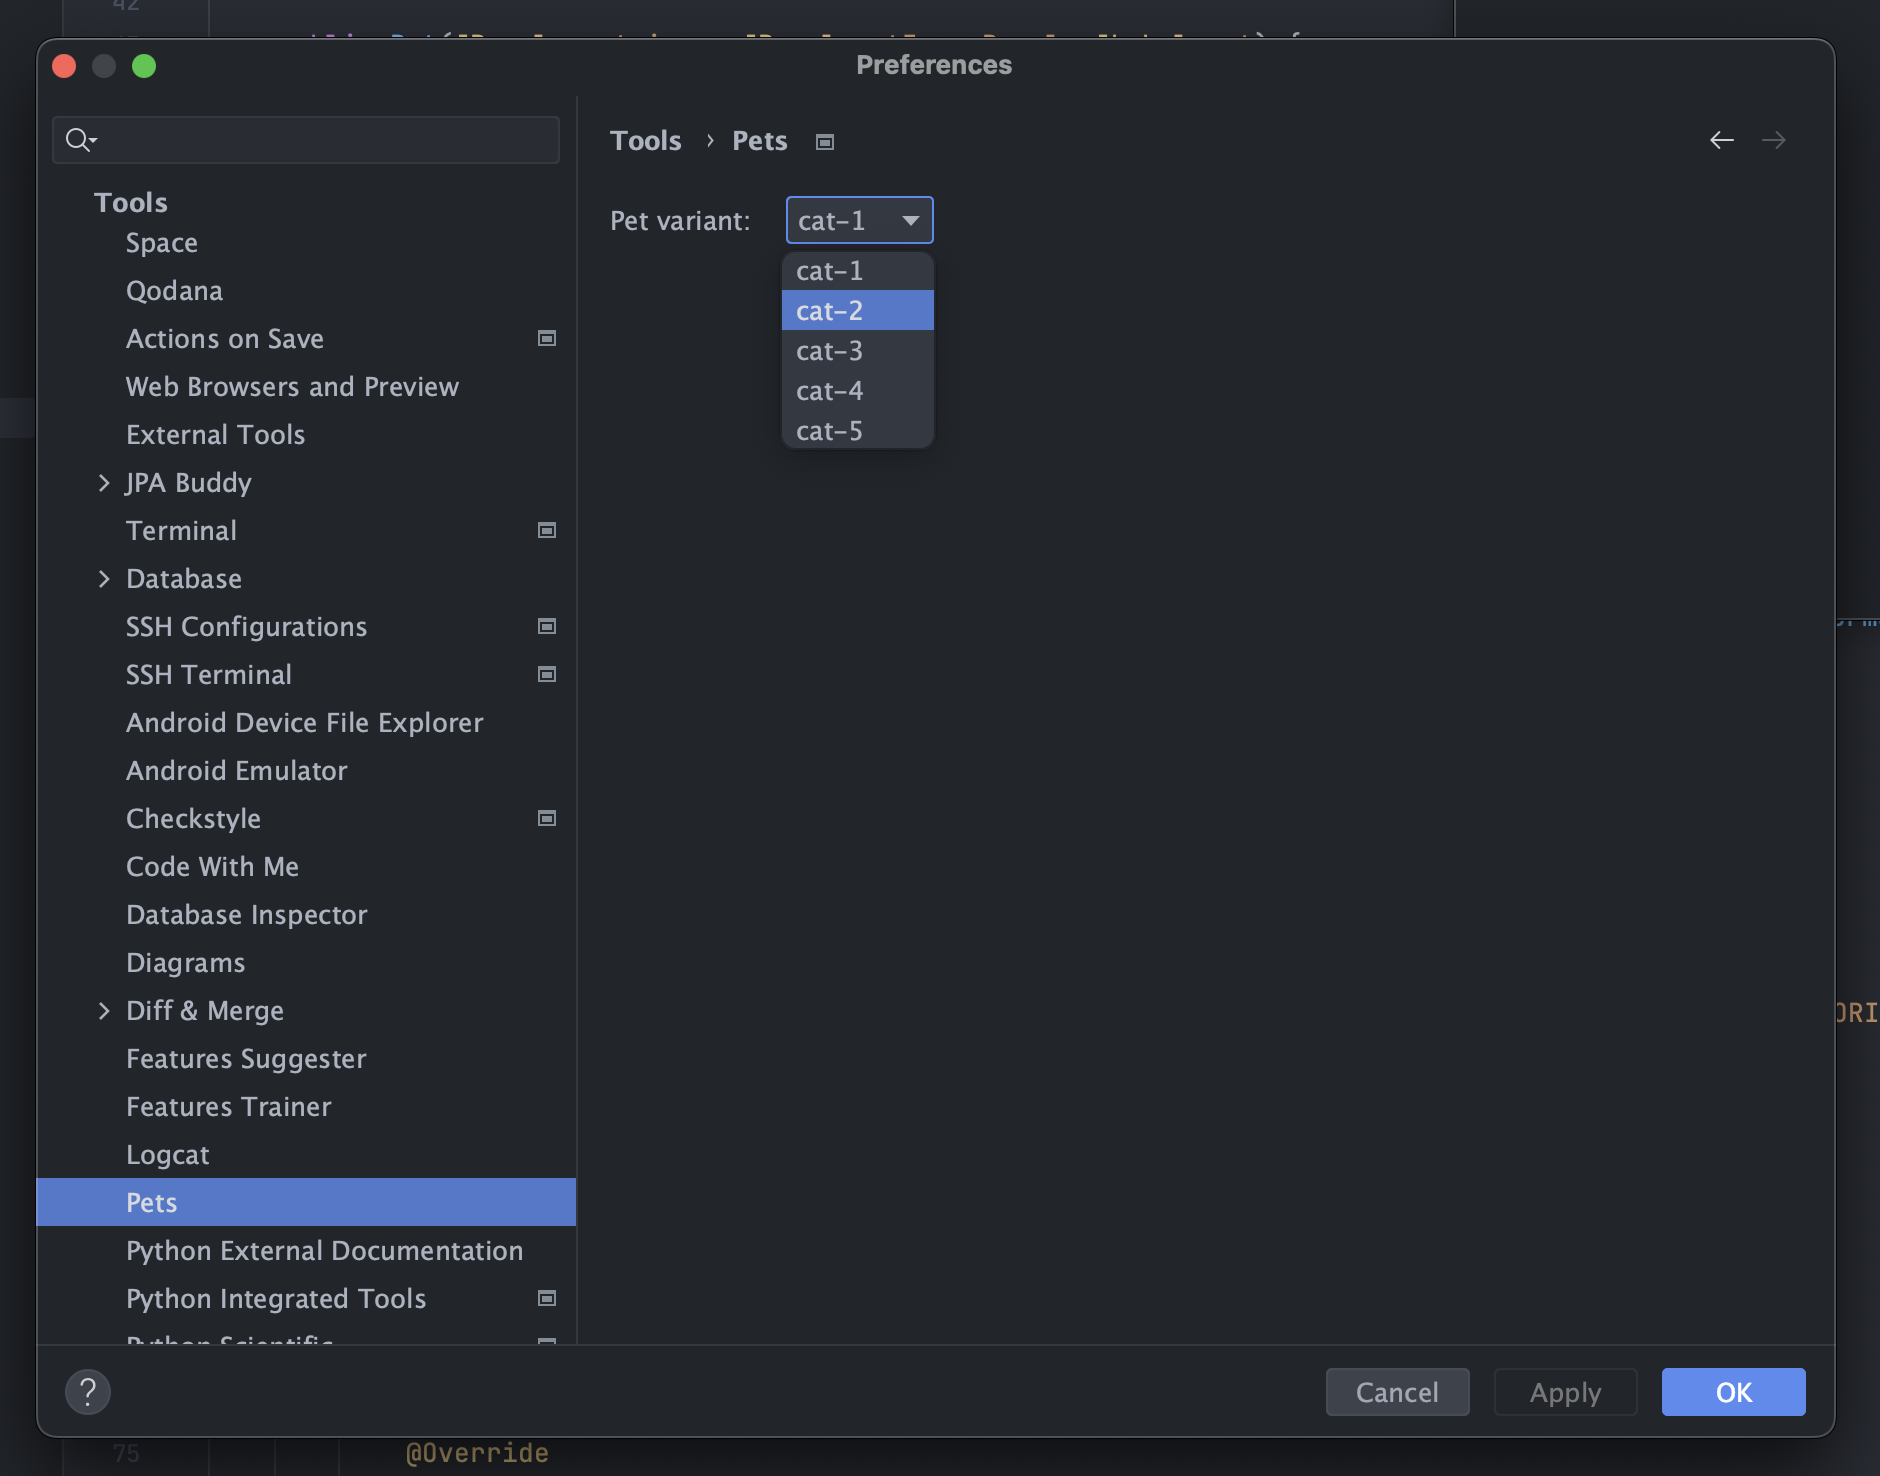
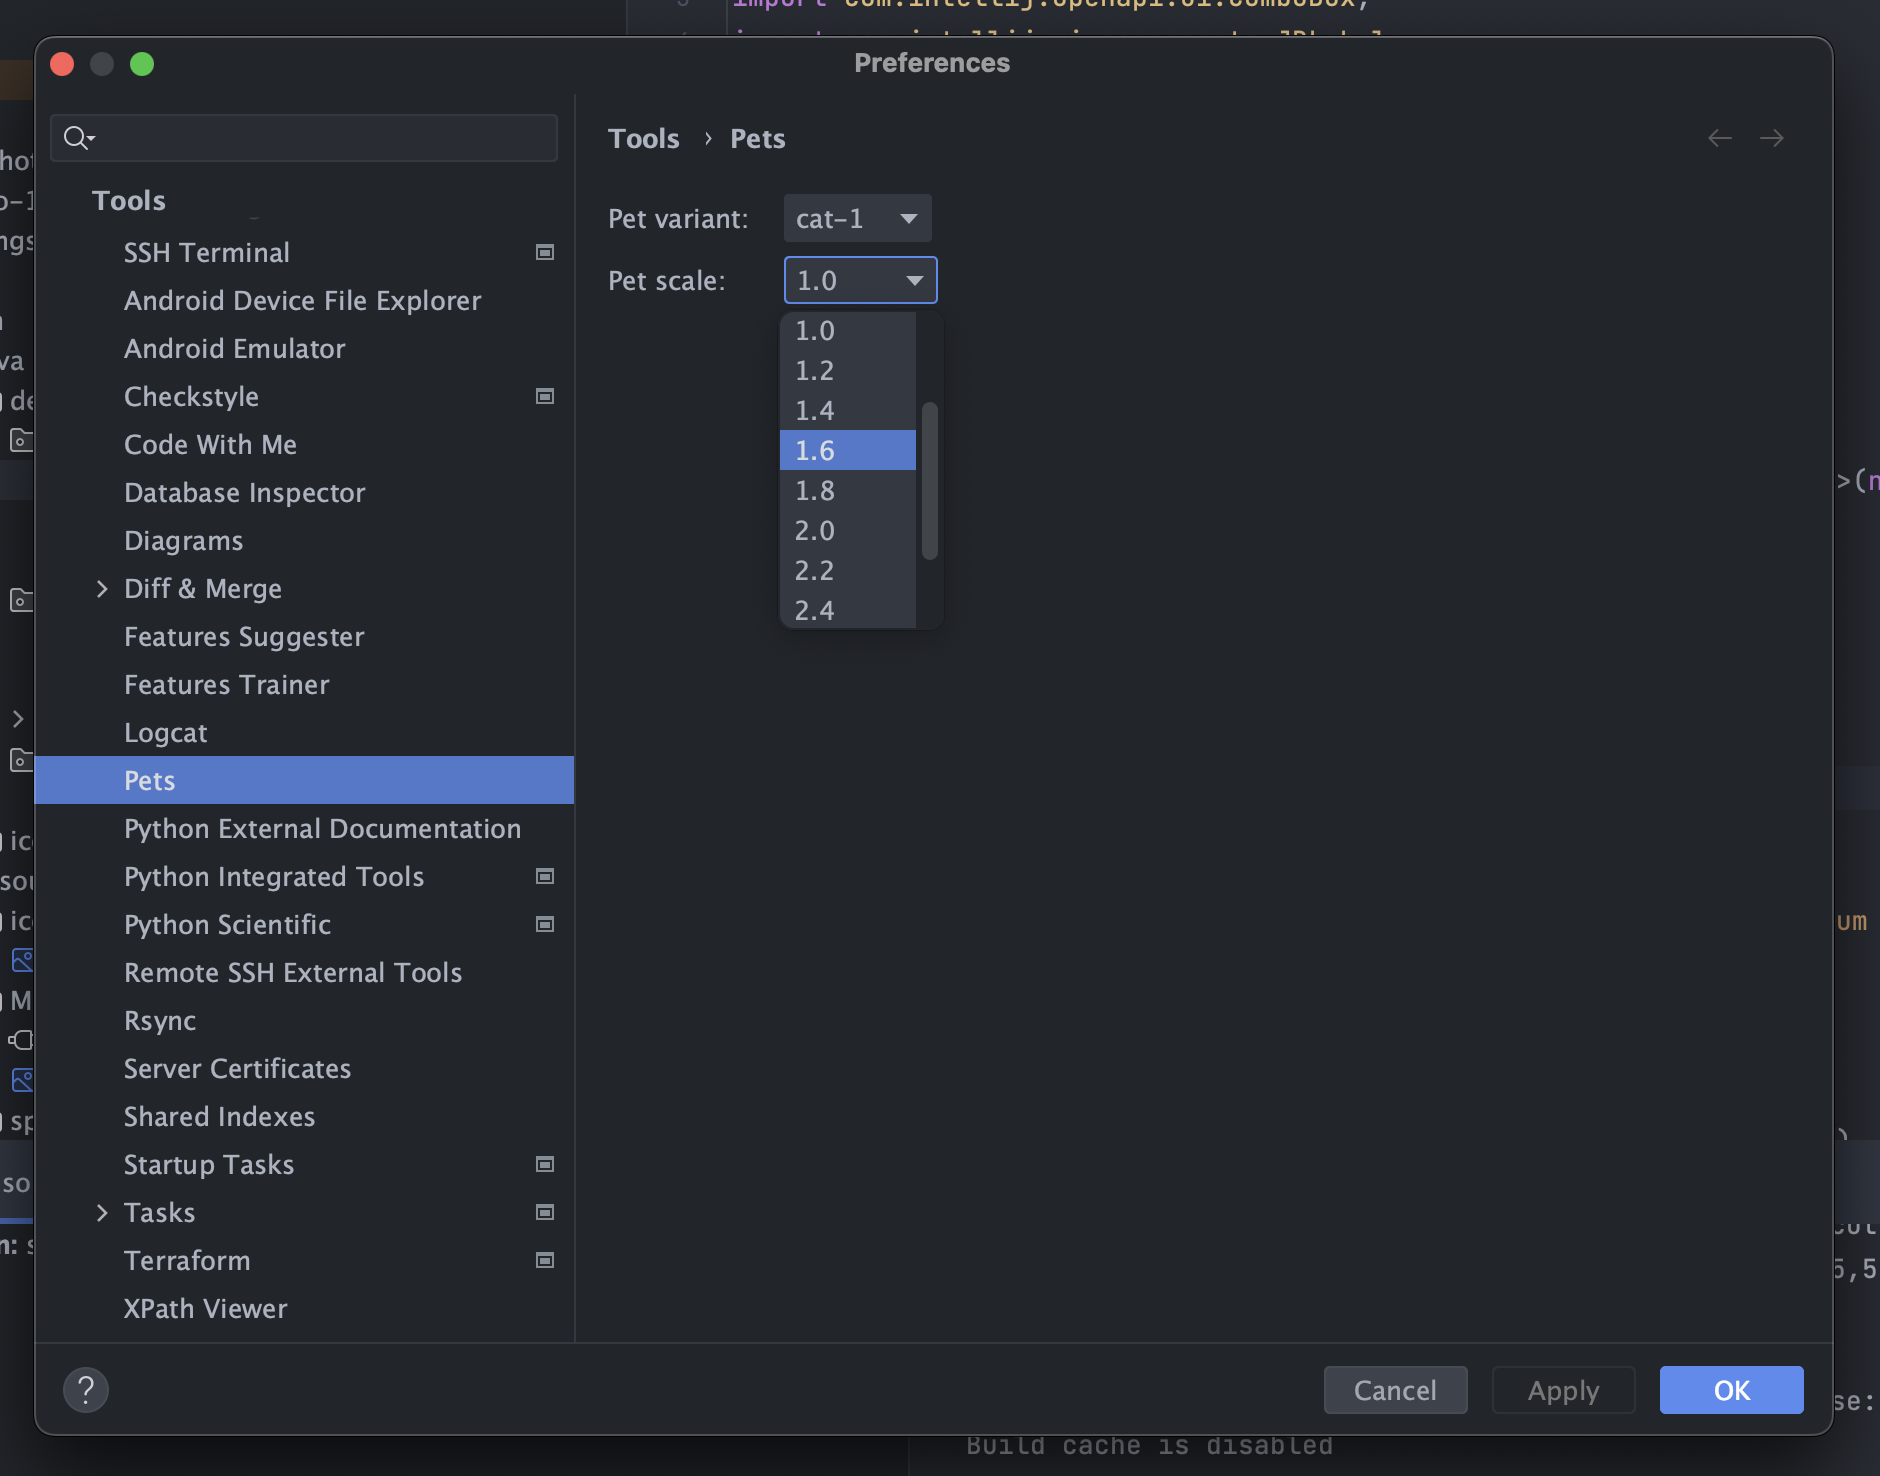
feat: add bunny and chicken pets

diff --git a/src/main/java/dev/gabrielchl/intellijpets/settings/AppSettingsComponent.java b/src/main/java/dev/gabrielchl/intellijpets/settings/AppSettingsComponent.java
@@ -12,11 +12,13 @@ public class AppSettingsComponent {
 
     private final JPanel myMainPanel;
     private final ComboBox<String> petVariantComboBox = new ComboBox<>(new String[]{
+            "bunny",
             "cat-1",
             "cat-2",
             "cat-3",
             "cat-4",
-            "cat-5"
+            "cat-5",
+            "chicken",
     });
     private final ComboBox<Double> petScaleComboBox = new ComboBox<>(
             IntStream.rangeClosed(1, 15).mapToDouble(num -> (double)num * 2 / 10).boxed().toArray(Double[]::new)

diff --git a/README.md b/README.md
@@ -4,6 +4,11 @@ Adds a cute pet to your favourite IDE.
 
 Inspired (very heavily) by [vscode-pets](https://github.com/tonybaloney/vscode-pets) created by [Tony Baloney](https://github.com/tonybaloney).
 
+## Features
+- A pet that walks around, sits, follows you, interacts with you, basically a fwend
+- Pet variants: 5 cats, bunny, chicken
+- Pet scale setting, to adjust the size of your pet
+
 ## How to use
 
 - After installation, you'll find a pet icon on the right toolbar of your IDE, click on it to open the tool window
@@ -12,9 +17,11 @@ Inspired (very heavily) by [vscode-pets](https://github.com/tonybaloney/vscode-p
 ## Credits
 
 - Original idea from [vscode-pets](https://github.com/tonybaloney/vscode-pets) created by [Tony Baloney](https://github.com/tonybaloney)
-- Cat 1 to 5 from [Catset](https://seethingswarm.itch.io/catset) created by [SeethingSwarm](https://seethingswarm.itch.io/) (note: the assets were purchased, must not be resold, see itch.io page for details)
+- All pet spritesheets created by [SeethingSwarm](https://seethingswarm.itch.io/) (note: the assets were purchased, must not be resold, see itch.io page for details)
 
 ## Screenshots
-![Demo](./screenshots/demo-1.png?raw=true "Demo")Demo
+Demo 1 ![Demo](./screenshots/demo-1.png?raw=true "Demo")
 
-![Settings](./screenshots/settings.png?raw=true "Settings")Settings
+Demo 2 ![Demo](./screenshots/demo-2.png?raw=true "Demo")
+
+Settings ![Settings](./screenshots/settings.png?raw=true "Settings")

diff --git a/src/main/resources/spritesheets/chicken/README.md b/src/main/resources/spritesheets/chicken/README.md
@@ -1,0 +1,2 @@
+(liedown is from idle)
+(jump is from peck)

diff --git a/src/main/resources/spritesheets/bunny/README.md b/src/main/resources/spritesheets/bunny/README.md
@@ -1,0 +1,1 @@
+(walk is from run)
